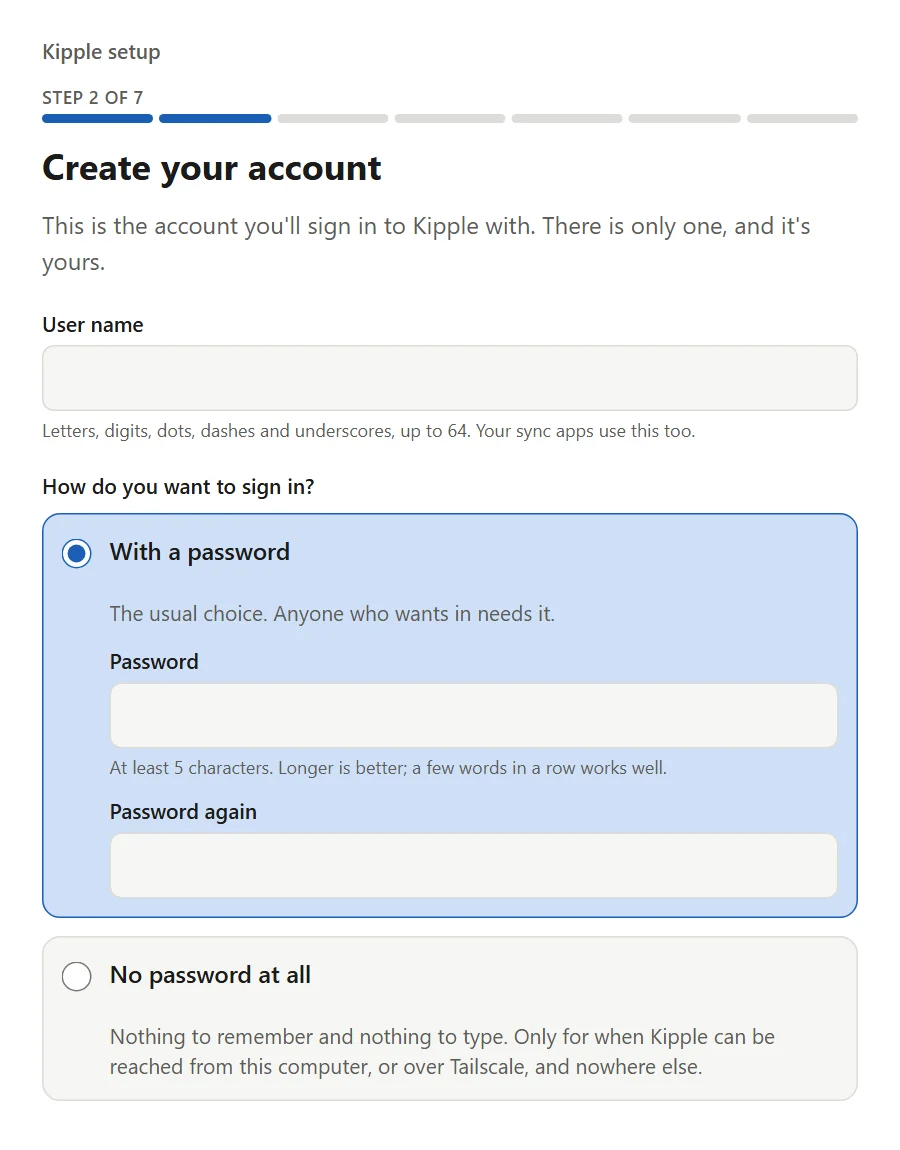
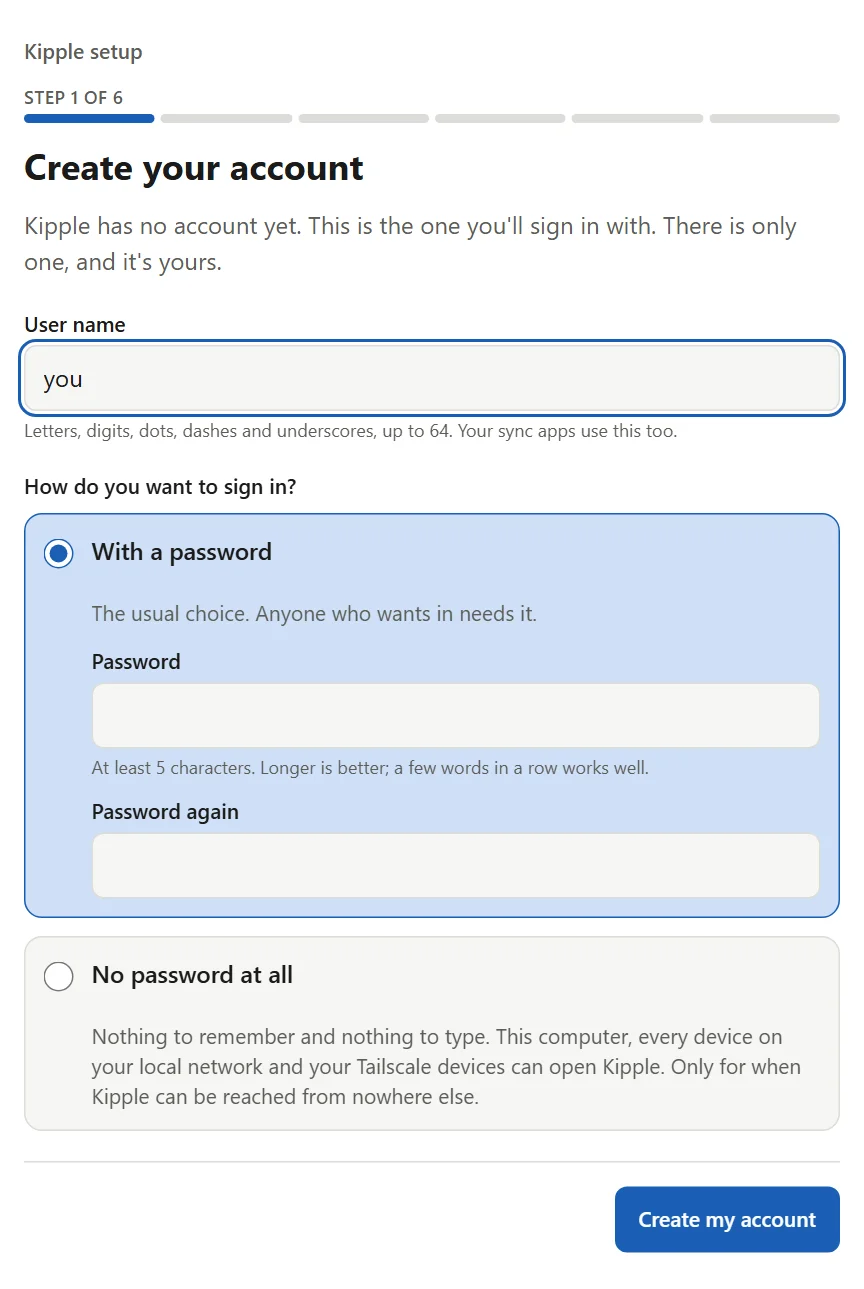
docs: wizard screenshots and First run text for the current flow (#9)

diff --git a/index.html b/index.html
@@ -182,19 +182,19 @@ volumes:
         <h2>First run</h2>
       </div>
       <div class="setup-text">
-        <p>The first time you open Kipple it says it is not set up and asks for a setup code. The code is printed once in the container's log, so <code>docker logs kipple</code> shows it. If it has scrolled away, <code>docker exec kipple /kipple setup-token</code> prints it again. Only someone who can read the log can claim your Kipple.</p>
-        <p>The wizard takes about a minute and every step after the account can be skipped. The steps are the setup code, your account, time zone, theme, an import from your old reader (OPML), a few recommended feeds, and an optional Reader API password for the apps that sync.</p>
+        <p>The first time you open Kipple it starts a short setup wizard, and its first screen creates your account.</p>
+        <p>The wizard takes about a minute and every step after the account can be skipped. The steps are your account, time zone, look and feel (day and night themes and the reading font), an import from your old reader (OPML), a few recommended feeds, and an optional Reader API password for the apps that sync.</p>
         <p class="notice"><b>No password?</b> The account step offers to go without one. An instance with no password must only be reachable from localhost or over <a href="https://tailscale.com/">Tailscale</a>. Anyone who can reach it can read and change everything. Kipple refuses open sign-in through a reverse proxy or tunnel.</p>
       </div>
       <div class="shot-row steps">
         <figure class="shot">
-          <img src="screenshots/wizard-code.webp" width="900" height="680" alt="Setup step 1 of 7, Enter your setup code: a text field holding a code of six groups of four letters and digits, with a link that says where to find the code.">
+          <img src="screenshots/wizard-account.webp" width="864" height="1289" alt="Setup step 1 of 6, Create your account: a user name field and two choices, With a password, selected, and No password at all, with a note that it is only for a Kipple reachable from this computer, your local network or Tailscale.">
         </figure>
         <figure class="shot">
-          <img src="screenshots/wizard-account.webp" width="900" height="1150" alt="Setup step 2 of 7, Create your account: a user name field and two choices, With a password, selected, and No password at all, with a note that it is only for a Kipple reachable from this computer or over Tailscale.">
+          <img src="screenshots/wizard-timezone.webp" width="864" height="1113" alt="Setup step 2 of 6, Choose your time zone: the zone suggested from the browser, a search box and a list of zones, with Skip and Continue buttons.">
         </figure>
         <figure class="shot">
-          <img src="screenshots/wizard-theme.webp" width="900" height="1250" alt="Setup step 4 of 7, Look and feel: day and night theme pickers showing Paper and Midnight previews, and a reading font picker.">
+          <img src="screenshots/wizard-theme.webp" width="864" height="1344" alt="Setup step 3 of 6, Look and feel: day and night theme pickers showing Paper and Midnight previews, and a reading font picker.">
         </figure>
       </div>
     </div>
@@ -203,7 +203,7 @@ volumes:
   <section class="sect">
     <div class="wrap">
       <h2>Where it stands</h2>
-      <p class="status"><span class="mono">v0.7.0-beta.1</span> is the current build. A new install opens on a form that creates your account, with no setup code, and Kipple is also published as a signed Docker image. Fetching, sync, the reading UI, the installable offline-capable app, and reading stats with a yearly Wrapped all run daily. Testing before 1.0 is under way. The diary, decisions and dead ends from building it are in <a href="https://github.com/WPTK/kipple-history">kipple-history</a>.</p>
+      <p class="status"><span class="mono">v0.7.0-beta.1</span> is the current build. A new install opens on a form that creates your account, and Kipple is also published as a signed Docker image. Fetching, sync, the reading UI, the installable offline-capable app, and reading stats with a yearly Wrapped all run daily. Testing before 1.0 is under way. The diary, decisions and dead ends from building it are in <a href="https://github.com/WPTK/kipple-history">kipple-history</a>.</p>
     </div>
   </section>
 </main>

diff --git a/design-system/DESIGN-SYSTEM.md b/design-system/DESIGN-SYSTEM.md
@@ -260,7 +260,7 @@ for reduced motion. No other animation.
 - Links: https://github.com/WPTK/Kipple (source, changelog at `blob/main/CHANGELOG.md`, license at
   `blob/main/LICENSE`, deploy notes at `blob/main/docs/deploy.md`), https://github.com/WPTK/kipple-history,
   https://wptk.org.
-- `screenshots/`: four WebP files listed in the Screenshots component, plus three wizard shots (`wizard-code.webp` 900 x 680, `wizard-account.webp` 900 x 1150, `wizard-theme.webp` 900 x 1250) shown in the First run section as `.shot-row.steps` (three equal columns, one column at or below 832px). The wizard shots were taken on 2026-09-30 at app commit `2a2e261` (`v0.5.0-beta.1`) from a throwaway instance started with `KIPPLE_SEED_SET=fresh npm run seed`, in a 1000 x 1000 viewport at 1.5x with the Paper scheme, steps 1, 2 and 4 cropped to the 900px wide wizard column. The four main screenshots were not recaptured for 0.5.0-beta.1 because the reading UI did not visibly change. Captured from a throwaway instance of the app
+- `screenshots/`: four WebP files listed in the Screenshots component, plus three wizard shots (`wizard-account.webp` 864 x 1289, `wizard-timezone.webp` 864 x 1113, `wizard-theme.webp` 864 x 1344) shown in the First run section as `.shot-row.steps` (three equal columns, one column at or below 832px). The wizard shots were taken on 2026-10-03 at app commit `28768e2` (`v0.7.0-beta.1`) from a throwaway instance started with `KIPPLE_SEED_SET=fresh npm run seed`, in a 1000px wide viewport at 1.5x with the Paper scheme, each cropped to the 576px wide wizard column and as tall as its content (steps 1 to 3 of 6). The four main screenshots were not recaptured because the reading UI did not visibly change. Captured from a throwaway instance of the app
   by the app repo's `web/scripts/site-shots.mjs` (run at every release, `docs/RELEASING.md` step 12), after
   `KIPPLE_SEED_SET=site npm run seed`, which seeds Wikimedia Picture of the Day, Wikipedia Featured Article, NASA
   Image of the Day, Go Blog and Hacker News in a folder named "Less noise". Last captured 2026-09-29 at app commit
